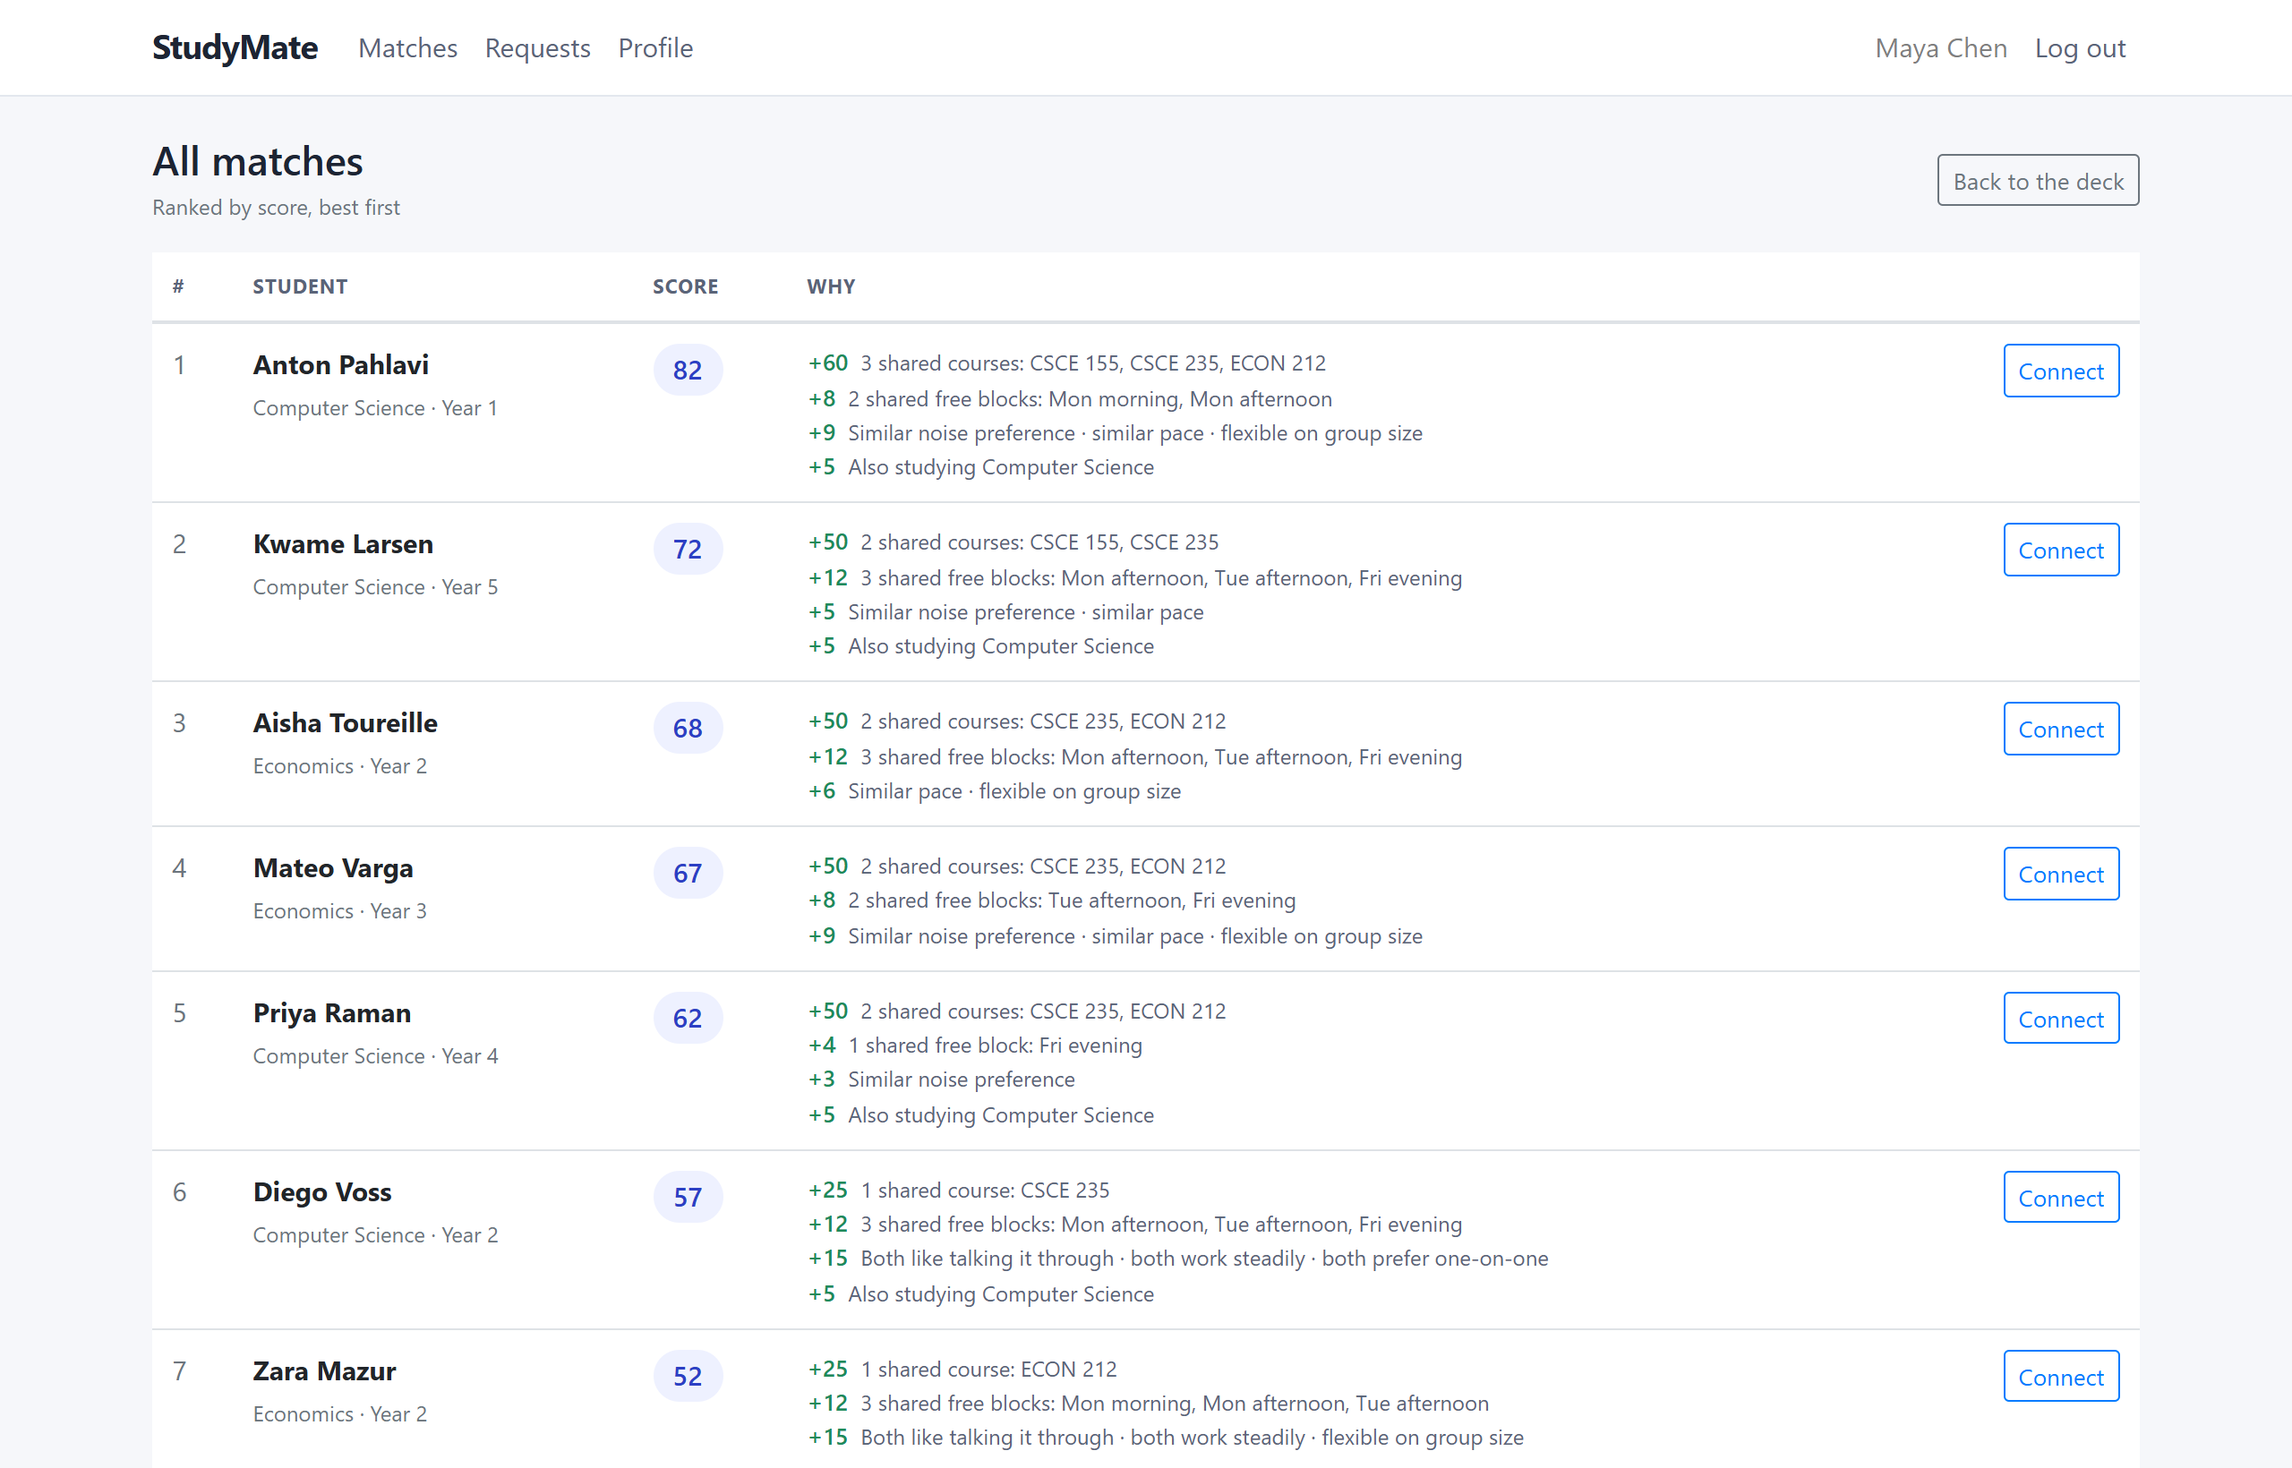
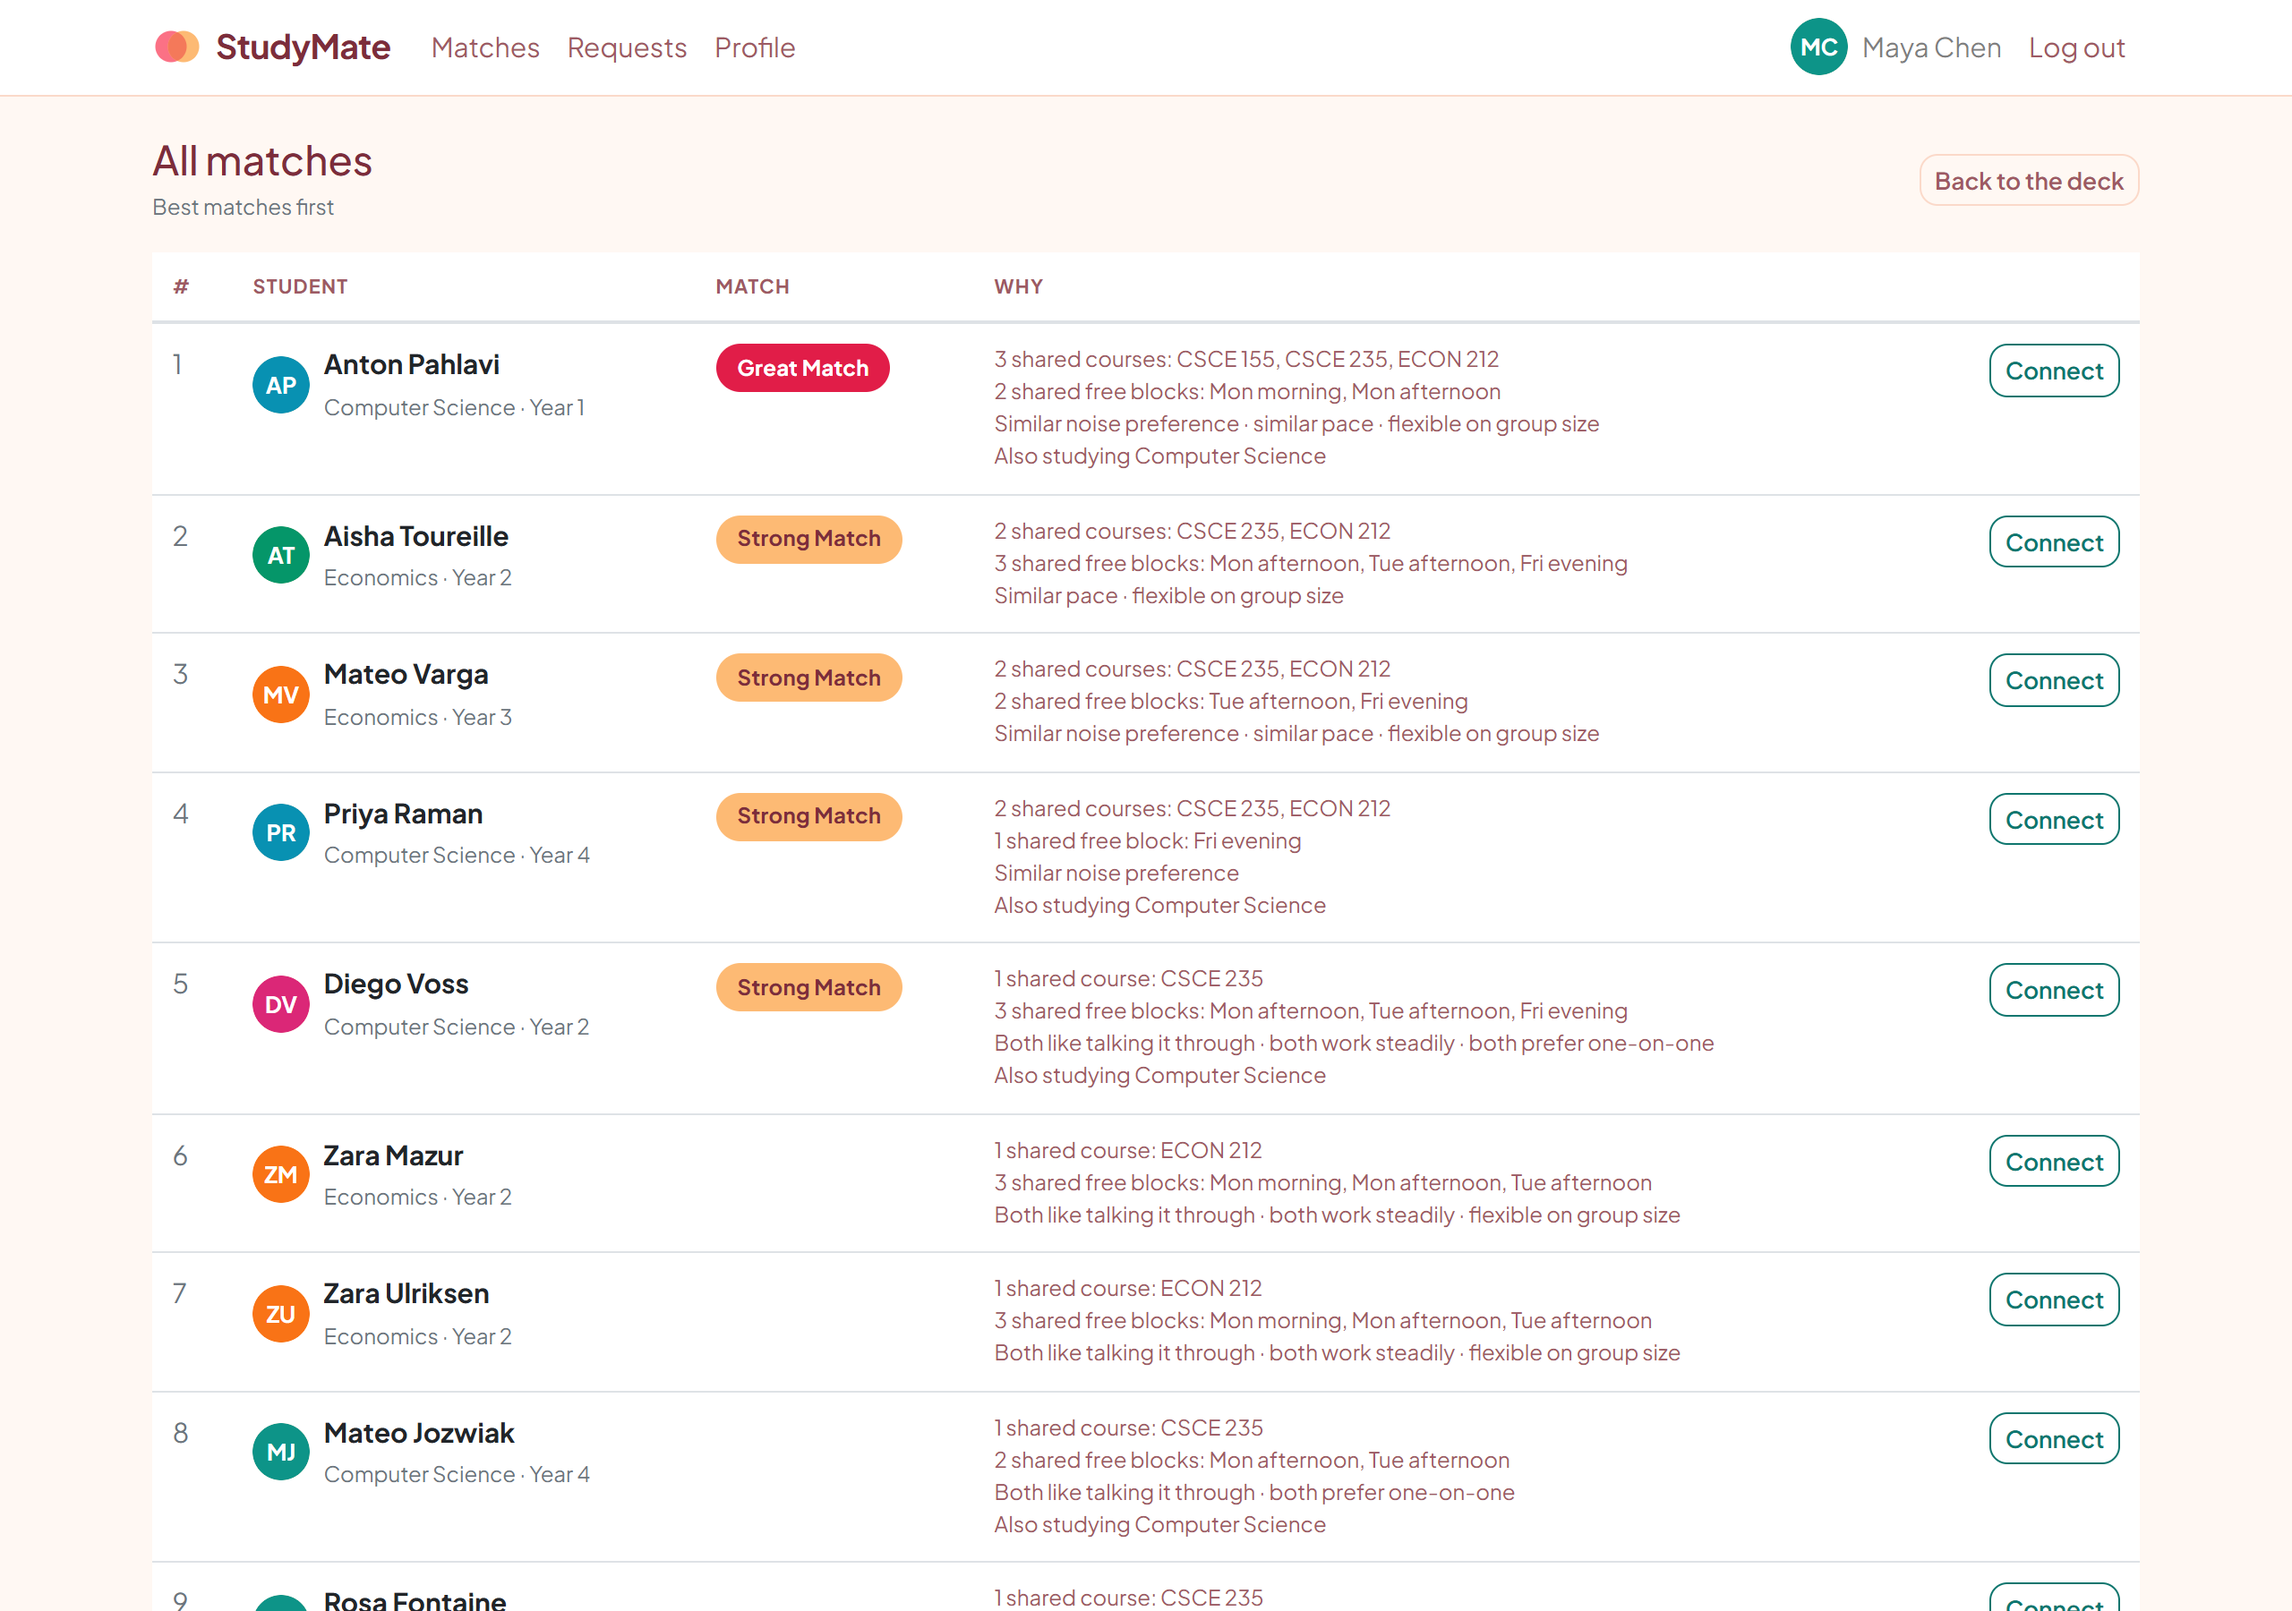
Re-shoot README screenshots and update the copy for the new theme and behavior
The screenshots were still the old cool-blue theme with the numeric score
visible on every card -- both gone as of the last two commits. Re-shot all
five against the running app with the new palette, the hidden score, tier
badges, and initials avatars.

README text updated to match what the app actually does now:
- explains the university filter runs before scoring, not as a bonus
- explains the score drives ranking and tier assignment but is never
  rendered, replacing the old "scored out of 100, shown on the card" claim
- documents custom classes and the default avatar in "the rest of the app"
- two new limitations: uploaded photos are lost on restart along with
  everything else in the database, and university is free text with no
  catalog to check it against (typo'd or differently-phrased names are
  treated as different schools)

Verified before re-shooting: login and register render correctly in the new
theme with zero page-specific CSS -- they only ever used Bootstrap's default
component classes, which are already reskinned globally. Checked 375/768/1280
widths and the browser console across the landing, login and register pages;
no errors.

diff --git a/README.md b/README.md
@@ -15,10 +15,13 @@ and show the reasoning behind every match.
 Most "find a study partner" tools are a directory with a search box. StudyMate is a
 matcher: a student enters their courses, their weekly availability and how they like
 to work, and the app scores every other student against them and returns a ranked
-deck of candidates.
+deck of candidates — restricted to their own university, so the deck is never full of
+people you could never actually meet.
 
-Each candidate is scored out of 100, and the score is broken down into the reasons
-that produced it — never presented as an unexplained number.
+The score itself is never shown. What you see instead is a **Great Match** or
+**Strong Match** badge for the strongest candidates, or a plain unlabeled card for
+everyone else — there is deliberately no "weak match" label. Every card carries the
+concrete reasons behind it, in plain language.
 
 ![The match review deck](docs/screenshots/match-deck.png)
 
@@ -32,10 +35,12 @@ ordering itself is visible:
 
 ## How the matching works
 
-`MatchScorer` compares two students across four dimensions. The weighting reflects
-what makes a study partnership work in practice: being in the same course matters
-far more than having a similar personality, and being free at the same time is a
-prerequisite for meeting at all.
+Two students are only ever compared if they share a **university** — that filter runs
+before anything else and cannot be outweighed by any amount of course overlap.
+Within that pool, `MatchScorer` compares students across four dimensions. The
+weighting reflects what makes a study partnership work in practice: being in the same
+course matters far more than having a similar personality, and being free at the same
+time is a prerequisite for meeting at all.
 
 | Dimension | Points | Notes |
 |---|---|---|
@@ -50,15 +55,17 @@ and someone who wants quiet can work together, someone who wants silence and som
 who wants discussion cannot. Group size is compatible when both agree or either is
 flexible.
 
-Every point a candidate earns is attached to a `MatchReason` carrying its own text,
-so the interface can always explain the total. This is enforced by a test that walks
-all 729 combinations of the three style preferences and asserts the reasons sum to
-the score.
+The 0-100 score drives the ranking and decides which of two tiers a card gets —
+**Great Match** at 75+, **Strong Match** at 55+ — but the number itself is never
+rendered anywhere in the interface. What is shown is the reasoning: every point a
+candidate earns is attached to a `MatchReason` carrying its own plain-language text,
+enforced by a test that walks all 729 combinations of the three style preferences and
+checks the reasons still sum to the score, even though that sum is never displayed.
 
 The scorer is deliberately free of Entity Framework so the ranking logic can be
-tested directly. `MatchService` adds the database query and the exclusion rules:
-never the viewer, never anyone already involved in a request in either direction,
-and never anyone the viewer has passed on.
+tested directly. `MatchService` adds the database query, the university filter, and
+the exclusion rules: never the viewer, never anyone already involved in a request in
+either direction, and never anyone the viewer has passed on.
 
 ---
 
@@ -94,7 +101,13 @@ docker build -t studymate . && docker run -p 10000:10000 studymate
 ## The rest of the app
 
 Profiles drive the matching, so course selection and a weekly availability grid are
-the substance of the profile page:
+the substance of the profile page. The fixed course list doesn't cover everything, so
+a student can add one as free text — there's no free catalog API to check it's real
+against, so it's validated as a department code plus a number and reused if someone
+else already added the same course, rather than fragmenting into near-duplicates.
+
+A profile picture is optional; anyone who hasn't set one gets a deterministic
+initials-on-color avatar instead, the same pattern GitHub and Slack use for a default:
 
 ![The profile editor](docs/screenshots/profile.png)
 
@@ -122,9 +135,14 @@ This is a demonstration deployment, and it is worth being specific about what th
 - **The data is fictional.** All 60 students are generated. Any resemblance to real
   people is accidental.
 - **The database resets whenever the service restarts.** The free hosting tier has no
-  persistent disk, so accounts created through registration, requests sent and
-  profile edits are lost on restart, redeploy, and after an idle spin-down. Within a
-  session everything persists normally. The seeded data always returns intact.
+  persistent disk, so accounts created through registration, requests sent, profile
+  edits and uploaded profile photos are all lost on restart, redeploy, and after an
+  idle spin-down. Within a session everything persists normally. The seeded data
+  always returns intact.
+- **University is free text, not a verified list.** There's no catalog to check it
+  against. Casing and leading/trailing whitespace are normalized on save, but
+  "University of Nebraska" and "University of Nebraska-Lincoln" would still be
+  treated as two different schools — spelling has to match exactly.
 - **The first request after an idle period takes about a minute.** The free tier spins
   the service down after 15 minutes without traffic.
 - **It is not built to hold real personal data.** There is no email verification, no
